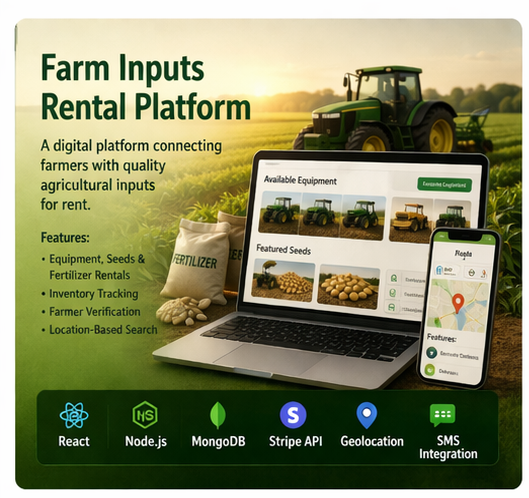
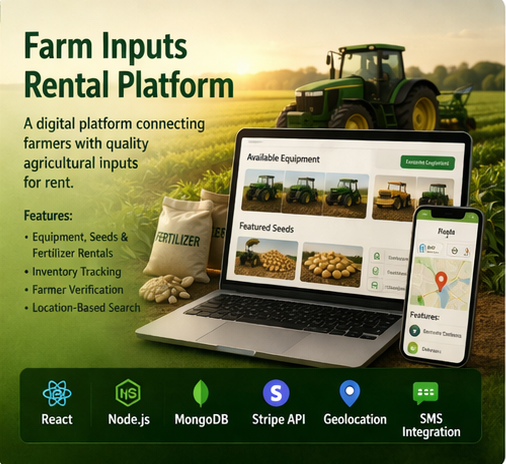
Update portfolio projects: remove duplicate AUDITSOFT, update project images and data

diff --git a/src/data/portfolioData.js b/src/data/portfolioData.js
@@ -68,15 +68,6 @@ export const portfolioData = {
   projects: [
     {
       id: 1,
-      title: "IoT Device Monitoring Platform",
-      description: "Real-time monitoring dashboard for IoT devices with data visualization, alerts, and remote management capabilities.",
-      technologies: ["React", "Node.js", "ESP32", "MQTT", "WebSocket"],
-      github: "https://github.com/felixkumafutsa",
-      demo: "https://felixkumafutsa.github.io",
-      image: "/api/placeholder/600/400"
-    },
-    {
-      id: 2,
       title: "MedCard Medical RFID System",
       description: "Secure medical identification system using RFID technology for patient tracking and medical record management.",
       technologies: ["ESP32", "RFID", "Node.js", "MariaDB", "REST API"],
@@ -85,7 +76,7 @@ export const portfolioData = {
       image: "/images/projects/medcard.png"
     },
     {
-      id: 3,
+      id: 2,
       title: "AUDITSOFT Enterprise Software",
       description: "Comprehensive enterprise auditing software for compliance management, risk assessment, and automated audit workflows with detailed reporting.",
       technologies: ["React", "Node.js", "PostgreSQL", "Docker", "JWT", "PDF Generation"],
@@ -94,76 +85,67 @@ export const portfolioData = {
       image: "/images/projects/auditsoft.png"
     },
     {
-      id: 4,
+      id: 3,
       title: "Farm Inputs Rental Platform",
       description: "Agricultural inputs management system for renting farming equipment, seeds, and fertilizers with inventory tracking and farmer verification.",
       technologies: ["React", "Node.js", "MongoDB", "Stripe API", "Geolocation", "SMS Integration"],
       github: "https://github.com/felixkumafutsa",
       demo: "https://felixkumafutsa.github.io",
-      image: "/portfolio-website/images/projects/farmrent.png"
+      image: "/images/projects/farmrent.png"
+    },
+    {
+      id: 4,
+      title: "CryptoSpeedX - Arbitrage Intelligence",
+      description: "Advanced crypto arbitrage intelligence platform that identifies and executes profitable trading opportunities across multiple exchanges in real-time.",
+      technologies: ["Python", "React", "WebSocket", "REST APIs", "PostgreSQL"],
+      github: "https://github.com/felixkumafutsa",
+      demo: "https://felixkumafutsa.github.io",
+      image: "/images/projects/cryptospeedX.png"
     },
     {
       id: 5,
-      title: "Crypto Trading Web Platform",
-      description: "Decentralized trading platform with smart contracts, real-time charts, and automated trading strategies.",
-      technologies: ["Web3", "Smart Contracts", "React", "Ethereum", "Solidity"],
-      github: "https://github.com/felixkumafutsa",
-      demo: "https://felixkumafutsa.github.io",
-      image: "/portfolio-website/images/projects/trader.png"
-    },
-    {
-      id: 6,
-      title: "CryptoSpeedX - Arbitrage Intelligence",
-      description: "Advanced crypto arbitrage intelligence platform that identifies and executes profitable trading opportunities across multiple exchanges in real-time.",
-      technologies: ["Python", "React", "WebSocket", "Machine Learning", "REST APIs", "PostgreSQL"],
-      github: "https://github.com/felixkumafutsa",
-      demo: "https://felixkumafutsa.github.io",
-      image: "/api/placeholder/600/400"
-    },
-    {
-      id: 7,
       title: "MWCrypto Pay - Payment Settlement",
       description: "Crypto-based payment settlement system enabling seamless cross-border transactions without friction, allowing users to buy and sell goods/services globally using cryptocurrency.",
       technologies: ["Blockchain", "Node.js", "React", "Web3.js", "Smart Contracts", "MongoDB", "Stripe API"],
       github: "https://github.com/felixkumafutsa",
       demo: "https://felixkumafutsa.github.io",
-      image: "/portfolio-website/images/projects/cryptopay.png"
+      image: "/images/projects/mwcryptopay.png"
     },
     {
-      id: 8,
+      id: 6,
       title: "Solar Power Plant Monitoring System",
       description: "Comprehensive IoT-based monitoring system for solar power plants with real-time energy production tracking, performance analytics, and predictive maintenance alerts.",
       technologies: ["ESP32", "Solar Sensors", "React", "Node.js", "MQTT", "InfluxDB", "Grafana", "WebSocket"],
       github: "https://github.com/felixkumafutsa",
       demo: "https://felixkumafutsa.github.io",
-      image: "/portfolio-website/images/projects/solar.png"
+      image: "/images/projects/solar.png"
     },
     {
-      id: 9,
+      id: 7,
       title: "IoT SmartBin System",
       description: "Intelligent waste management system with ultrasonic sensors for fill-level detection, automated collection scheduling, and real-time dashboard for municipal authorities.",
       technologies: ["ESP32", "Ultrasonic Sensors", "LoRaWAN", "React", "MongoDB", "GPS", "SMS Gateway"],
       github: "https://github.com/felixkumafutsa",
       demo: "https://felixkumafutsa.github.io",
-      image: "/api/placeholder/600/400"
+      image: "/images/projects/smartbin.png"
     },
     {
-      id: 10,
+      id: 8,
       title: "IoT Monitoring Gateway",
       description: "Universal IoT gateway platform enabling users to connect and monitor various IoT devices through a centralized dashboard with real-time data visualization and alert management.",
       technologies: ["Raspberry Pi", "MQTT Broker", "React", "Node.js", "WebSocket", "PostgreSQL", "Docker", "REST API"],
       github: "https://github.com/felixkumafutsa",
       demo: "https://felixkumafutsa.github.io",
-      image: "/api/placeholder/600/400"
+      image: "/images/projects/iot monitoring gateway.png"
     },
     {
-      id: 11,
+      id: 9,
       title: "Fingerprint Attendance System",
       description: "Biometric attendance system with fingerprint recognition, real-time tracking, and analytics dashboard.",
       technologies: ["ESP32", "R503 Sensor", "REST API", "MongoDB", "React"],
       github: "https://github.com/felixkumafutsa",
       demo: "https://felixkumafutsa.github.io",
-      image: "/api/placeholder/600/400"
+      image: "/images/projects/fingerprint.png"
     }
   ],
 
